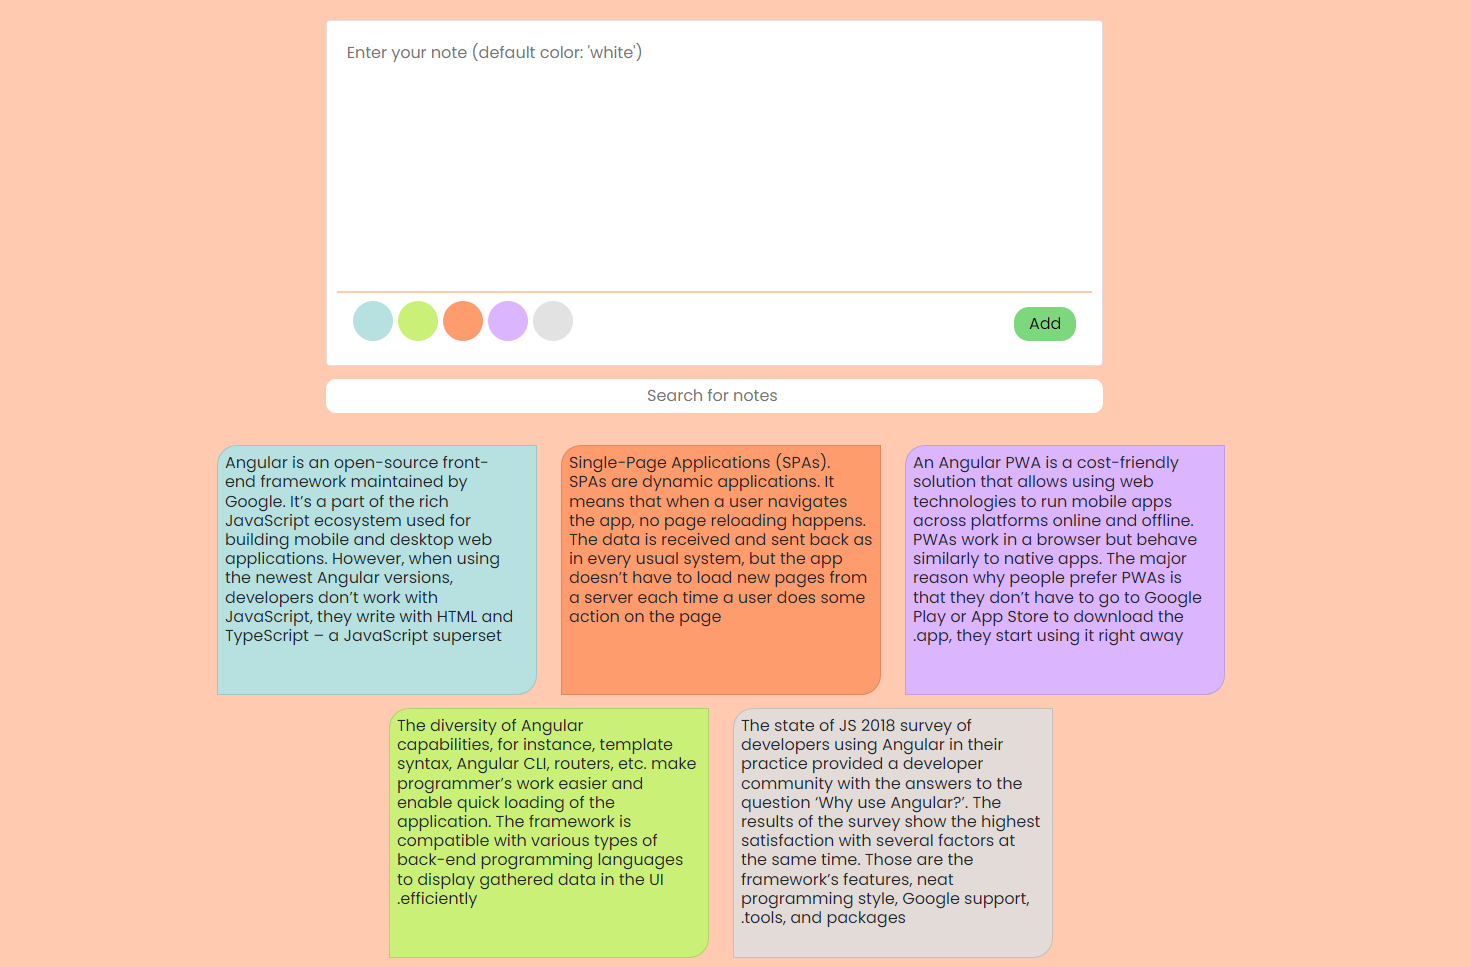
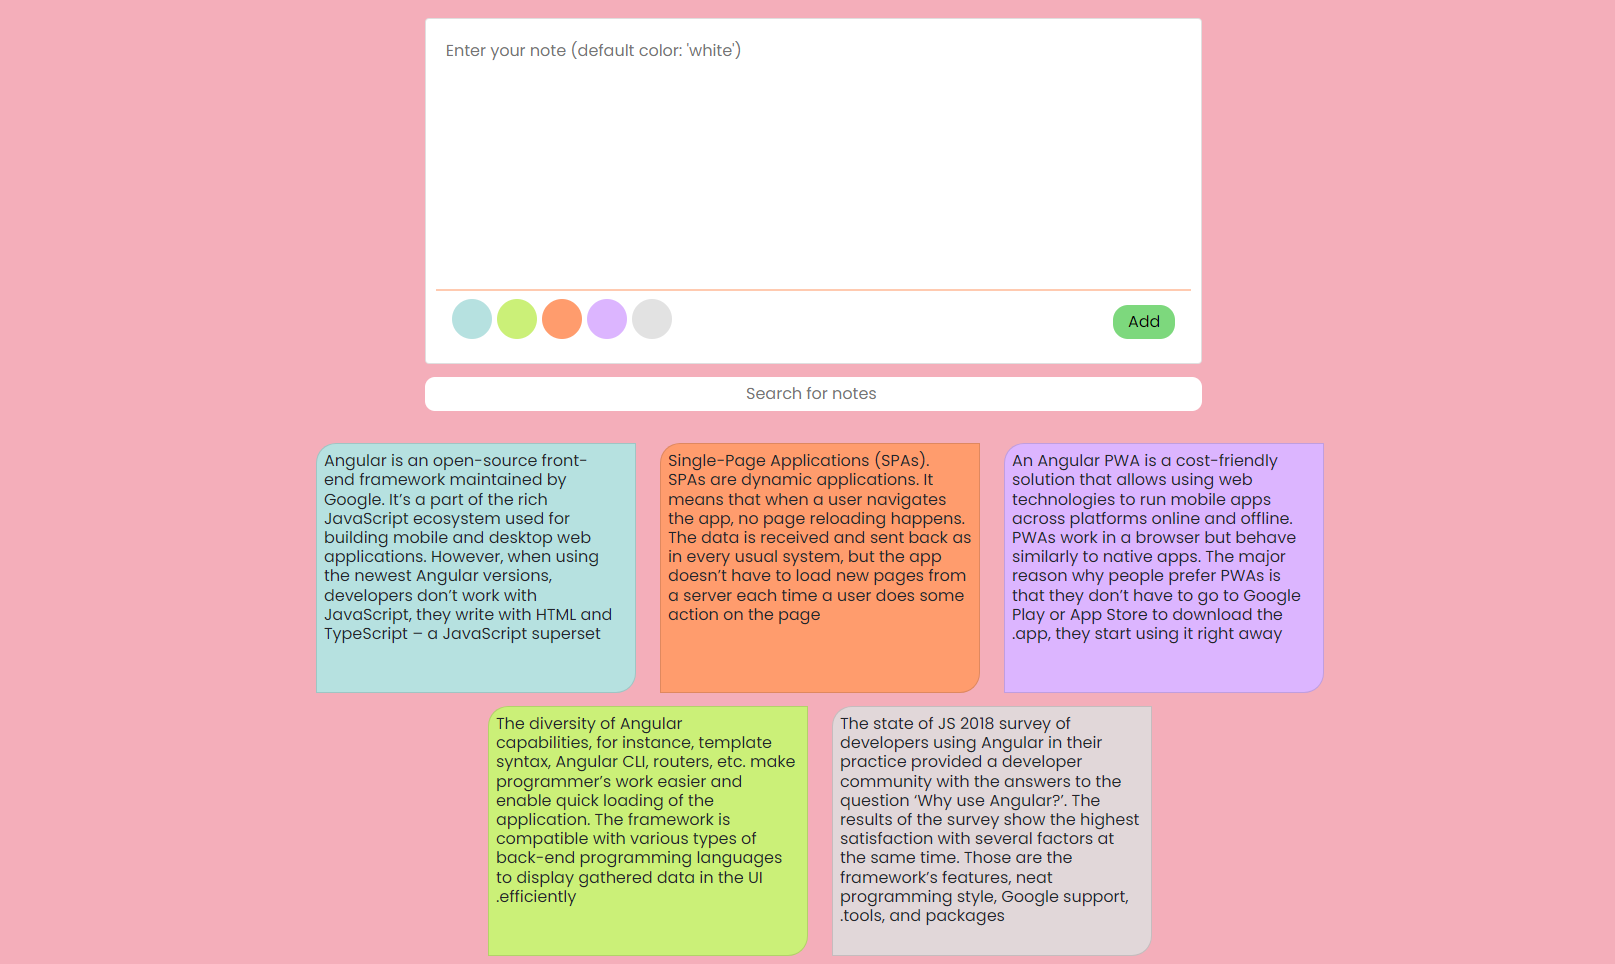
Updated notes app colors

diff --git a/src/app/main-components/home/home.component.ts b/src/app/main-components/home/home.component.ts
@@ -16,7 +16,7 @@ export class HomeComponent implements OnInit {
     {name:"Random Quotes",primaryColor:'#8d9db6',secondaryColor:"#b6bcc2cb",description:"You can generate a random quote for sharing", srcImage:"./assets/images/randomQuotes-app.png",routerLink:"randomquotes-app"},
     {name:"Weather App",primaryColor:'white',secondaryColor:"#4B515D",description:"You can get weather information from this application.", srcImage:"./assets/images/weather-app.png",routerLink:"weather-app"},
     {name:"GitRepos App",primaryColor:'#ff5000',secondaryColor:"#1379bb",description:"You can list users' public repositories on github.", srcImage:"./assets/images/github-repos-app.png",routerLink:"githubrepos-app"},
-    {name:"Notes App",primaryColor:'white',secondaryColor:"#ffcab0",description:"You can save and delete notes.", srcImage:"./assets/images/notes-app.png",routerLink:"notes-app"},
+    {name:"Notes App",primaryColor:'white',secondaryColor:"#f4aeba",description:"You can save and delete notes.", srcImage:"./assets/images/notes-app.png",routerLink:"notes-app"},
 
   ]
   ngOnInit(): void {

diff --git a/src/app/notes-app/notes-app.component.css b/src/app/notes-app/notes-app.component.css
@@ -1,5 +1,5 @@
 body{
-    background-color: #ffcab0;
+    background-color:#f4aeba;
     position: relative;
     padding: 20px;
     position:relative;
@@ -73,7 +73,7 @@ textarea:focus{
 .delete-button{
     border:none;
     background-color: inherit;
-    color: rgb(248, 106, 106);
+    color: rgb(155, 10, 39);
     display: flex;
     margin:5px 5px 0 0;
     position: absolute;
@@ -83,7 +83,7 @@ textarea:focus{
     
 }
 .delete-button:hover{
-    color: red;
+    color:red ;
 }
 h6{
     text-indent:6%;
